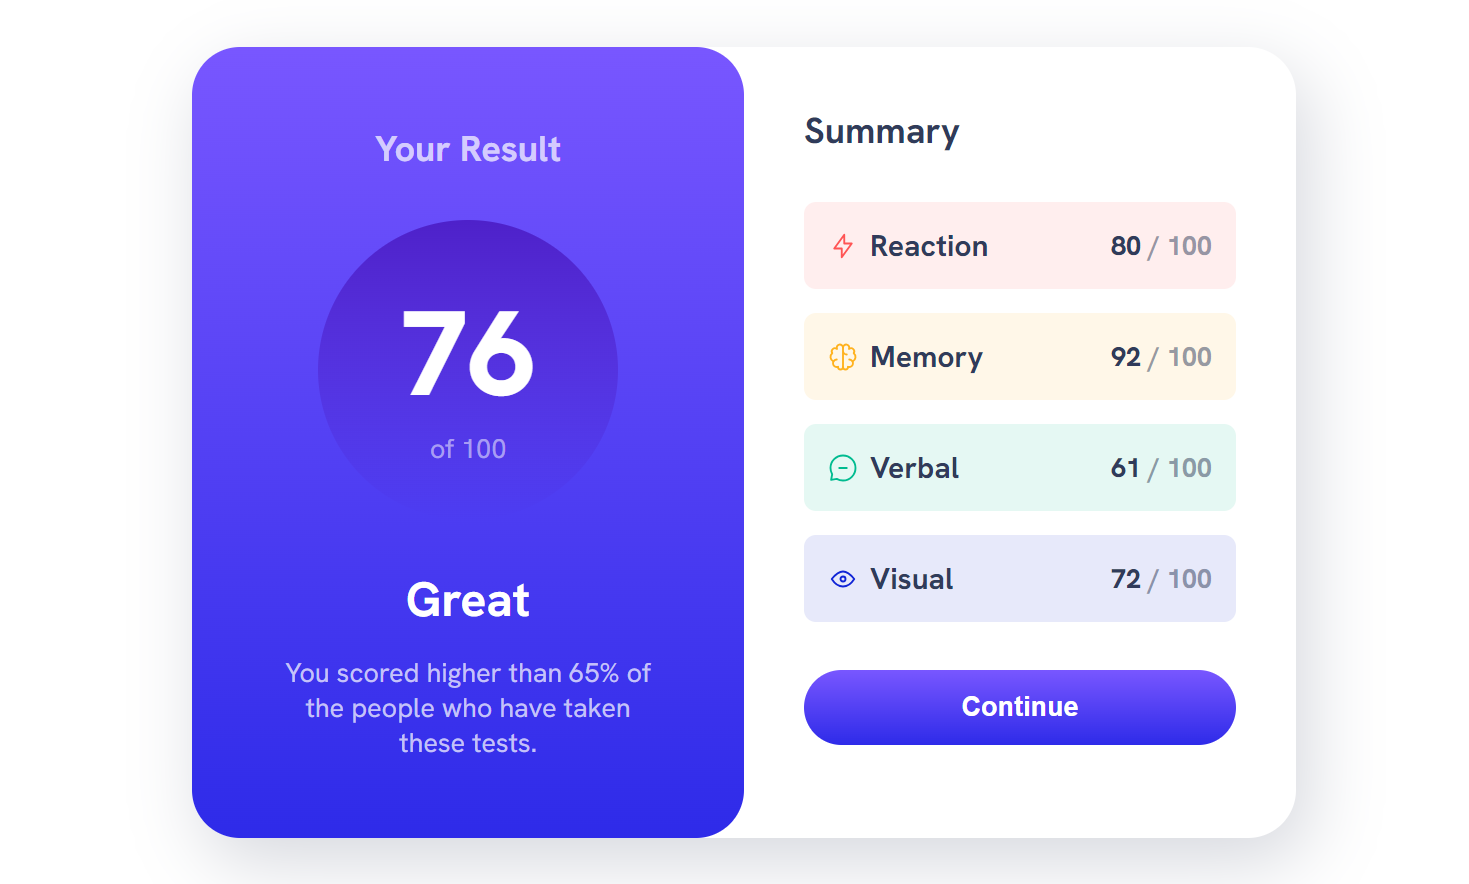
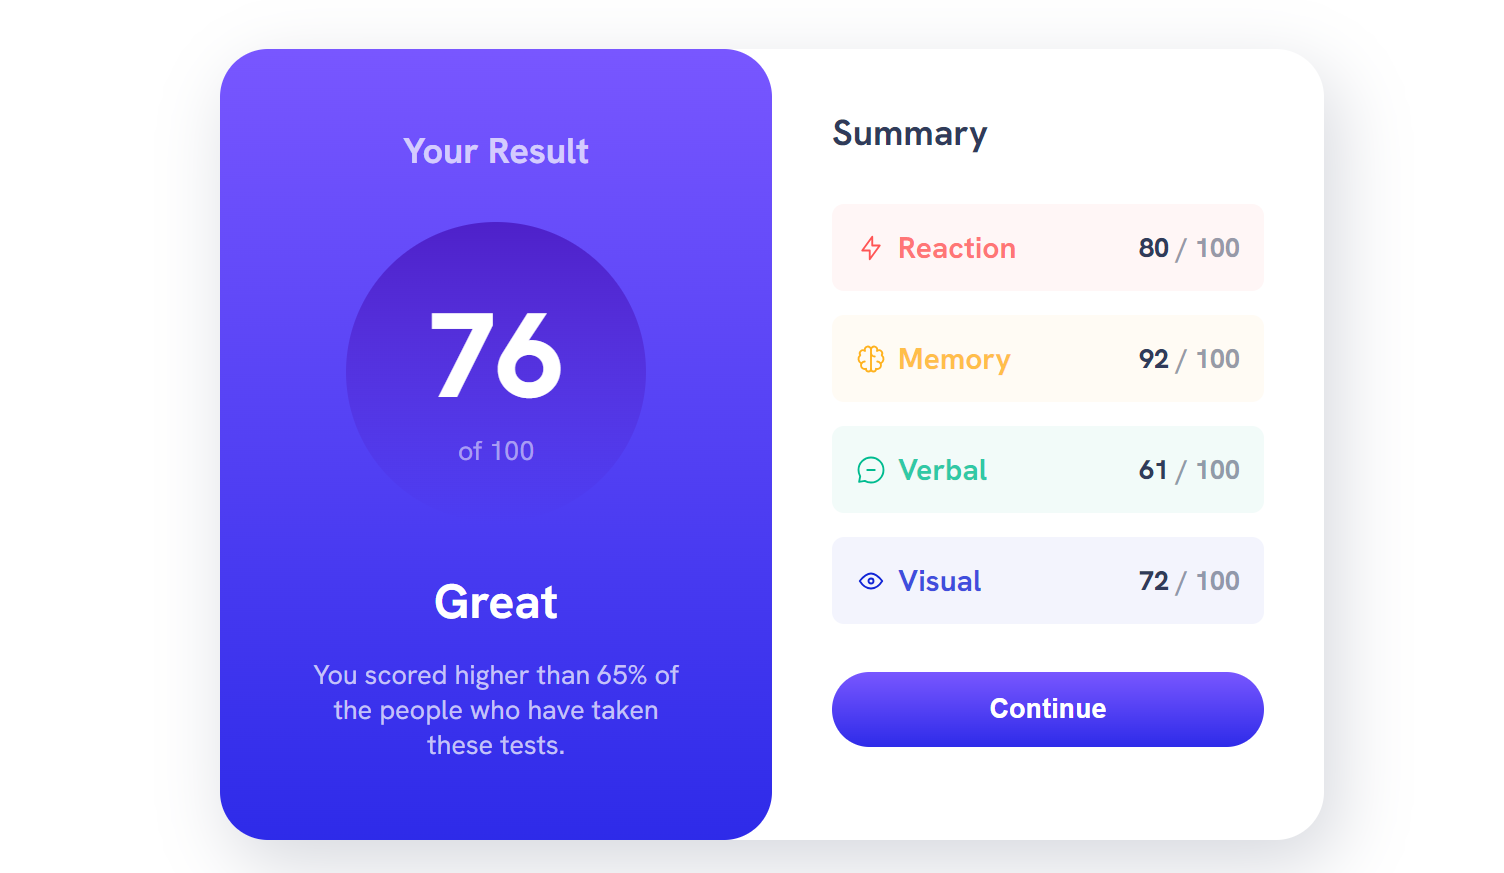
Summary item style change

diff --git a/style.css b/style.css
@@ -92,19 +92,32 @@ body {
     align-items: center;
     padding: 1rem;
     border-radius: .5rem;
-    background-color: hsl(0, 100%, 67%, 0.1);
+    background-color: hsl(0, 100%, 67%, 0.05);
+    color: hsl(0, 100%, 67%, 0.8);
 }
 
 .summary-item[data-accent="accent-2"] {
-    background-color: hsl(39, 100%, 56%, 0.1);
+    background-color: hsl(39, 100%, 56%, 0.05);
+}
+
+.summary-item[data-accent="accent-2"] .summary-item-title {
+    color: hsl(39, 100%, 56%, 0.8);
 }
 
 .summary-item[data-accent="accent-3"] {
-    background-color: hsl(166, 100%, 37%, 0.1);
+    background-color: hsl(166, 100%, 37%, 0.05);
+}
+
+.summary-item[data-accent="accent-3"] .summary-item-title {
+    color: hsl(166, 100%, 37%, 0.8);
 }
 
 .summary-item[data-accent="accent-4"] {
-    background-color: hsl(234, 85%, 45%, 0.1);
+    background-color: hsl(234, 85%, 45%, 0.05);
+}
+
+.summary-item[data-accent="accent-4"] .summary-item-title {
+    color: hsl(234, 85%, 45%, 0.8);
 }
 
 .summary-item-title {
